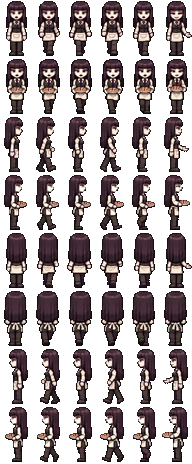
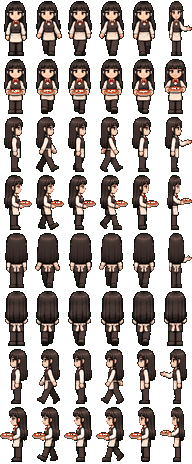
Waiter 08 redrawn: long dark hair and a red bow instead of the washed-out gothic look
Claude-Session: https://claude.ai/code/session_01X3CjJZzVxAKJaFpSnp6b3n

diff --git a/assets/cast/NOTES.md b/assets/cast/NOTES.md
@@ -13,7 +13,7 @@ How the game uses this pack, and what was adjusted. It was the /dev pilot `dev/p
 - **Open point:** seen from the side, a waiter carrying leans back 2.5–4.5 px compared with the empty-handed rows, so his head moves at the hand-off.
 - **Replaced:** this pack replaces the earlier pilots in the game's code (trio-01, waiter-01, cooks-01-05). Their folders stay in `dev/pilots/` for reference.
 
-- **Staff expansion (0.04o):** four waitresses (05 rose bob, 06 copper curls, 07 straight black hair, 08 gothic) and six cooks (06 rose braid, 07 copper waves, 08 straight black hair, all women; 09 grey moustache, 10 dark curls, 11 blue mohawk, men). Same cells and foot line (row 55); their heads don't jump in the side strides and don't lean when carrying, so they need no nudges. Women: waiters 02, 05–08 and cooks 02, 05–08; men: waiters 01, 03, 04 and cooks 01, 03, 04, 09–11.
+- **Staff expansion (0.04o):** four waitresses (05 rose bob, 06 copper curls, 07 straight black hair, 08 long dark hair and a red bow; 08 was redrawn, the first one was a gothic look washed out in purple) and six cooks (06 rose braid, 07 copper waves, 08 straight black hair, all women; 09 grey moustache, 10 dark curls, 11 blue mohawk, men). Same cells and foot line (row 55); their heads don't jump in the side strides and don't lean when carrying, so they need no nudges. Women: waiters 02, 05–08 and cooks 02, 05–08; men: waiters 01, 03, 04 and cooks 01, 03, 04, 09–11.
 
 - **v2 of the pack:** only the five cooks changed. Their faces were 16 px wide against the waiters' and customers' 21–22 px; the new ones have 20–22 px heads, the same shoulders and the same foot line (row 55).
 
